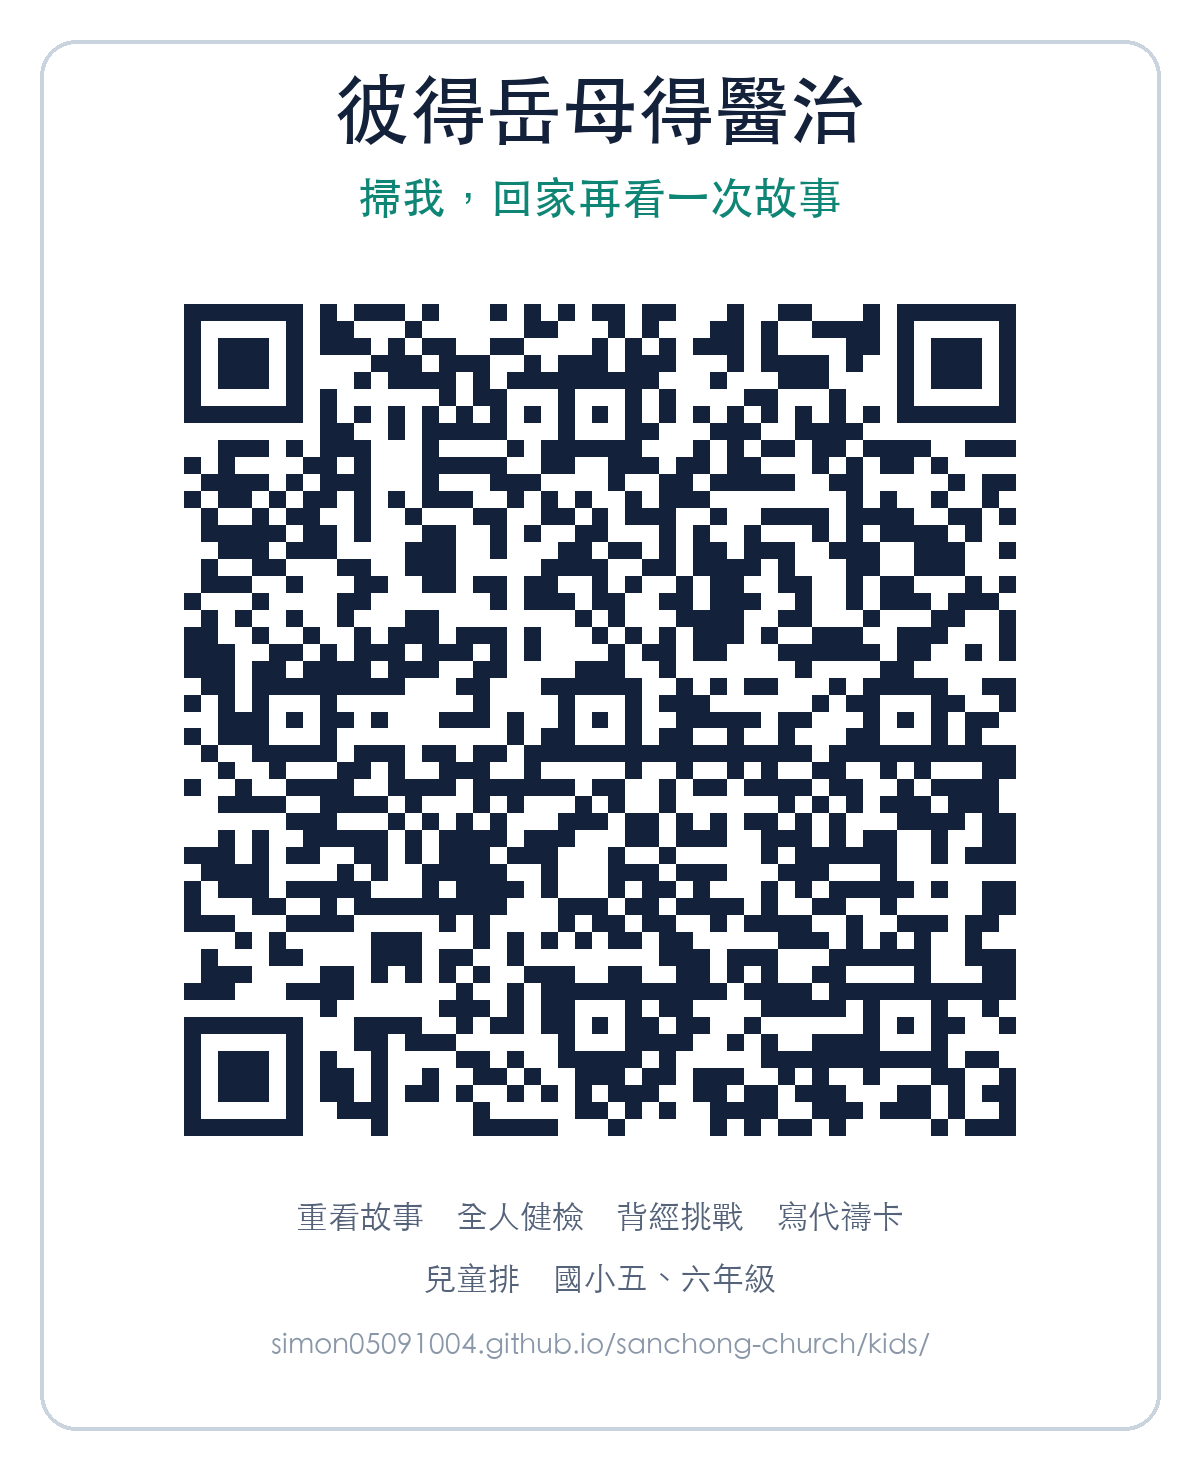
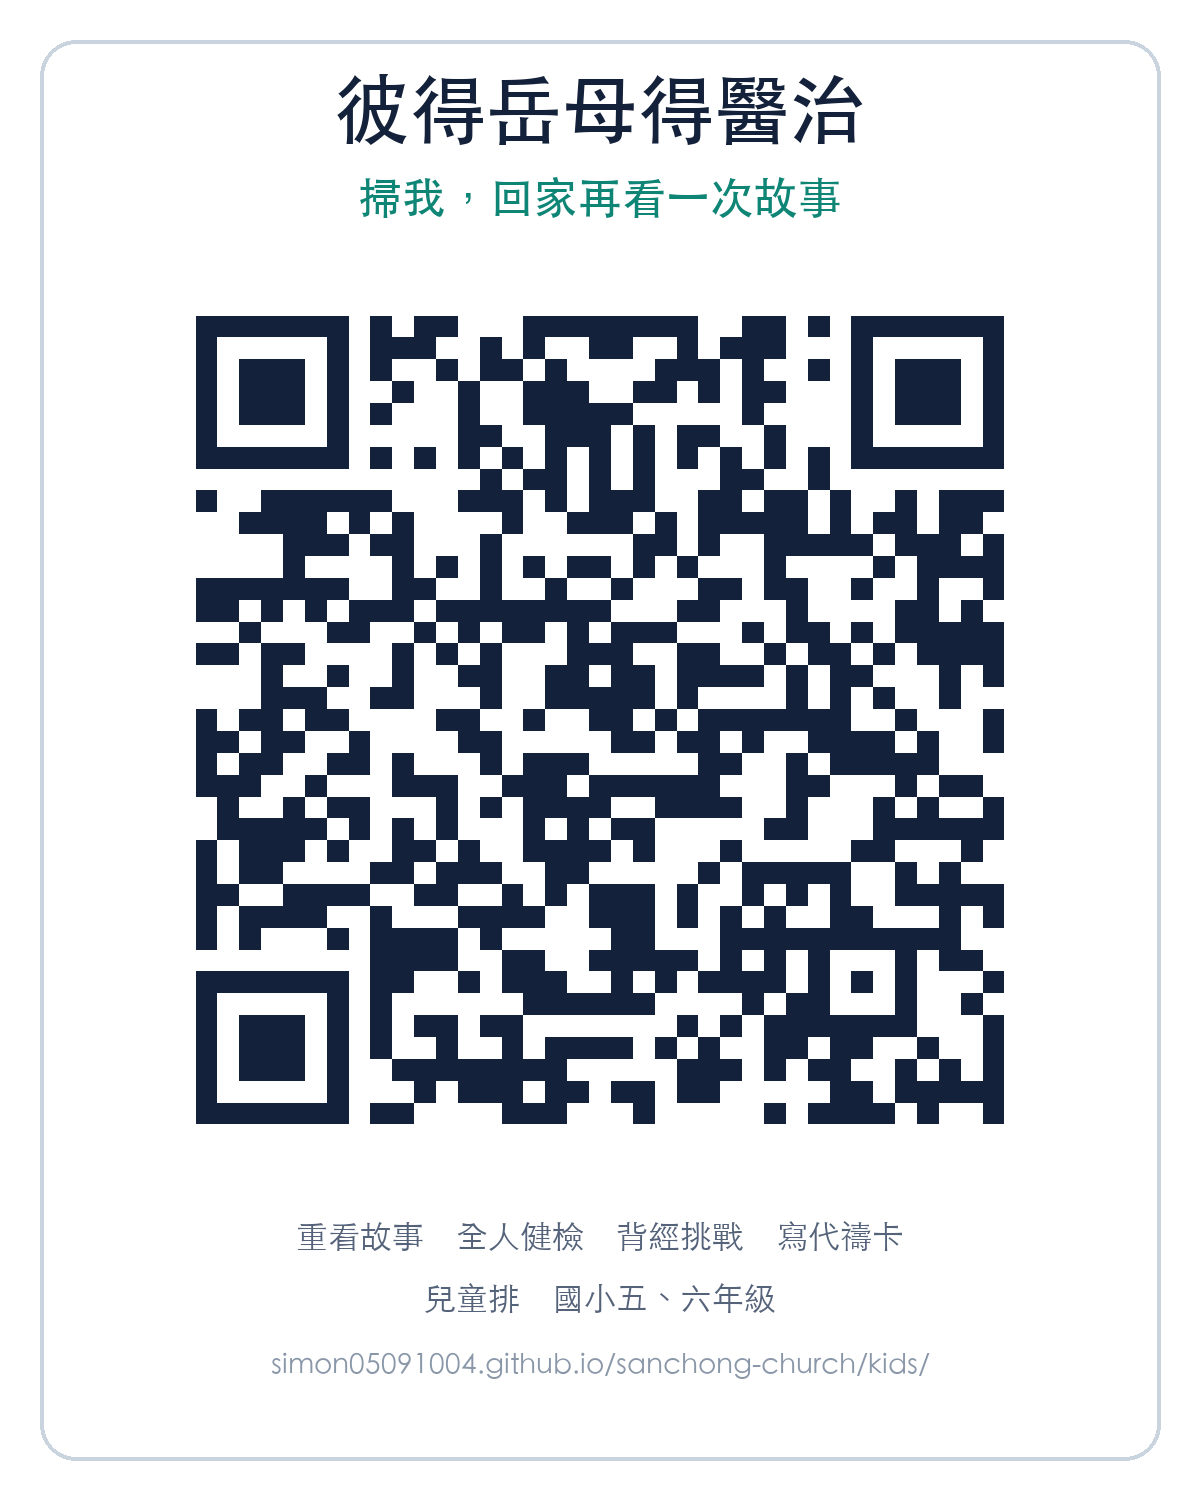
Fix kids QR code: was cropped and too dense to scan
The in-page QR SVG had fixed width/height and no viewBox, so shrinking
it with CSS cut off two finder patterns. Regenerated as a version 5-M
code (37x37 instead of 49x49) with a viewBox, added tap-to-enlarge for
projecting, and remade the poster PNG to match.

Changed region(s): [[0.1542, 0.1837, 0.8633, 0.9184], [0.2775, 0.0306, 0.7092, 0.1531]]

diff --git a/kids/peter-healing.html b/kids/peter-healing.html
@@ -338,7 +338,12 @@ body.proj .narr-text{font-size:clamp(22px,2.5vw,30px)}
 .takeaway{font-family:var(--font-kai);font-size:clamp(22px,3vw,34px);text-align:center;margin:8px 0 0;color:var(--heal);line-height:1.5}
 .qr-card{display:grid;grid-template-columns:auto minmax(0,1fr);gap:16px;align-items:center}
 .qr-card p{margin:0}
-.qr-slot svg{width:clamp(120px,15vw,170px);height:auto;display:block;border-radius:8px}
+.qr-btn{border:0;background:none;padding:0;cursor:zoom-in;display:grid;justify-items:center;gap:4px;color:var(--muted);font-size:12.5px}
+.qr-btn svg{width:clamp(150px,18vw,220px);height:auto;display:block;border-radius:8px}
+.qr-big{position:fixed;inset:0;z-index:50;background:color-mix(in srgb,var(--ink) 72%,transparent);display:grid;place-items:center;padding:max(16px,env(safe-area-inset-top,0px)) max(16px,env(safe-area-inset-right,0px)) max(16px,env(safe-area-inset-bottom,0px)) max(16px,env(safe-area-inset-left,0px));cursor:zoom-out}
+.qr-big-in{background:#fff;color:#14213A;border-radius:18px;padding:clamp(14px,2.5vw,28px);display:grid;justify-items:center;gap:10px;text-align:center}
+.qr-big-in svg{width:min(72vh,84vw);height:auto;display:block}
+.qr-big-in p{margin:0;font-family:var(--font-kai);font-size:clamp(20px,3vw,34px);font-weight:700}
 .qr-card .url{font-size:12.5px;color:var(--muted);word-break:break-all;margin-top:4px}
 @media (max-width:520px){.qr-card{grid-template-columns:minmax(0,1fr);justify-items:center;text-align:center}}
 .seg-foot a.primary{margin-left:auto}
@@ -758,6 +763,7 @@ body.kids .plan-tl,body.kids #mode,body.kids #timer,body.kids .qr-card,body.kids
 </section>
 
 </main>
+<div class="qr-big" id="qr-big" hidden><div class="qr-big-in" role="dialog" aria-label="放大的 QR code"><div id="qr-big-slot"></div><p>掃我，回家再看一次故事</p><span style="font-size:13px;color:#55637A">點任何地方關閉</span></div></div>
 
 <script>
 (function(){
@@ -806,8 +812,12 @@ const timer=(()=>{
 /* ---------- mode & fullscreen ---------- */
 let KIDS=false;try{KIDS=new URLSearchParams(location.search).has('kids');}catch(e){}
 const KIDS_URL='https://simon05091004.github.io/sanchong-church/kids/peter-healing.html?kids';
-const QR_SVG="<svg role=\"img\" aria-label=\"給孩子掃的 QR code\" width=\"212\" height=\"212\" class=\"segno\"><g transform=\"scale(4)\"><path fill=\"#fff\" d=\"M0 0h53v53h-53z\"/><path class=\"qrline\" stroke=\"#14213a\" d=\"M2 2.5h7m1 0h1m1 0h3m1 0h1m3 0h1m1 0h1m1 0h1m1 0h2m1 0h2m3 0h1m2 0h2m3 0h1m1 0h7m-49 1h1m5 0h1m1 0h2m3 0h1m6 0h2m3 0h1m1 0h1m3 0h2m1 0h1m2 0h4m1 0h1m5 0h1m-49 1h1m1 0h3m1 0h1m1 0h3m1 0h1m1 0h2m2 0h2m4 0h1m1 0h1m1 0h1m1 0h3m1 0h1m4 0h2m1 0h1m1 0h3m1 0h1m-49 1h1m1 0h3m1 0h1m4 0h3m1 0h3m2 0h1m1 0h3m1 0h3m3 0h1m1 0h4m1 0h1m2 0h1m1 0h3m1 0h1m-49 1h1m1 0h3m1 0h1m3 0h1m1 0h4m1 0h1m1 0h9m3 0h1m3 0h3m4 0h1m1 0h3m1 0h1m-49 1h1m5 0h1m1 0h1m6 0h1m1 0h2m3 0h1m3 0h1m1 0h1m4 0h2m3 0h1m3 0h1m5 0h1m-49 1h7m1 0h1m1 0h1m1 0h1m1 0h1m1 0h1m1 0h1m1 0h1m1 0h1m1 0h1m1 0h1m1 0h1m1 0h1m1 0h1m1 0h1m1 0h1m1 0h1m1 0h1m1 0h7m-41 1h2m2 0h1m1 0h5m3 0h1m3 0h2m3 0h3m2 0h4m-38 1h3m1 0h1m1 0h3m3 0h1m4 0h1m1 0h6m3 0h1m1 0h1m1 0h2m1 0h2m1 0h4m2 0h3m-49 1h1m1 0h1m4 0h2m1 0h1m3 0h5m2 0h2m2 0h3m1 0h2m1 0h2m3 0h1m1 0h1m1 0h2m1 0h1m-44 1h4m1 0h1m1 0h3m3 0h1m3 0h3m4 0h1m2 0h2m1 0h5m2 0h2m5 0h1m1 0h2m-49 1h1m1 0h2m1 0h1m1 0h2m1 0h1m1 0h1m1 0h3m2 0h1m1 0h1m1 0h1m2 0h1m1 0h3m8 0h1m1 0h1m2 0h1m2 0h1m-47 1h1m2 0h1m1 0h2m2 0h1m2 0h1m3 0h2m2 0h2m1 0h1m1 0h3m2 0h1m2 0h4m1 0h4m2 0h2m1 0h1m-48 1h5m1 0h2m1 0h1m3 0h2m2 0h1m1 0h1m2 0h2m3 0h1m1 0h1m2 0h1m3 0h1m1 0h1m1 0h4m1 0h1m-45 1h3m1 0h3m4 0h3m2 0h1m3 0h2m1 0h2m1 0h1m1 0h2m1 0h3m2 0h3m2 0h3m2 0h1m-48 1h1m2 0h2m3 0h2m2 0h3m5 0h4m2 0h2m1 0h4m1 0h1m3 0h2m2 0h3m-45 1h3m2 0h1m3 0h2m2 0h2m1 0h2m1 0h2m2 0h1m1 0h1m2 0h1m1 0h2m2 0h2m2 0h1m1 0h2m3 0h1m1 0h1m-49 1h1m3 0h1m4 0h2m7 0h1m1 0h3m1 0h2m2 0h2m1 0h3m2 0h1m2 0h1m1 0h3m1 0h3m-47 1h1m1 0h1m2 0h1m2 0h1m3 0h2m8 0h1m1 0h1m3 0h4m2 0h2m3 0h1m3 0h2m2 0h1m-49 1h2m2 0h1m2 0h1m2 0h1m1 0h3m1 0h3m1 0h1m3 0h1m1 0h1m1 0h1m1 0h3m1 0h1m2 0h3m2 0h3m3 0h1m-49 1h3m2 0h2m1 0h1m1 0h3m1 0h3m1 0h1m1 0h1m4 0h1m1 0h2m1 0h2m3 0h6m1 0h2m2 0h1m1 0h1m-49 1h3m1 0h2m1 0h4m1 0h3m2 0h2m4 0h3m2 0h1m7 0h1m4 0h2m-42 1h2m1 0h9m3 0h2m3 0h6m2 0h1m1 0h1m1 0h2m3 0h1m1 0h5m2 0h2m-49 1h1m1 0h1m1 0h1m3 0h1m8 0h1m4 0h1m3 0h1m1 0h3m6 0h1m1 0h2m3 0h2m2 0h1m-47 1h3m1 0h1m1 0h2m1 0h1m3 0h3m1 0h1m2 0h1m1 0h1m1 0h1m2 0h5m1 0h2m3 0h1m1 0h1m1 0h1m1 0h2m-48 1h1m1 0h3m3 0h1m10 0h1m1 0h2m3 0h1m1 0h2m2 0h1m2 0h1m3 0h2m3 0h1m1 0h1m-46 1h1m2 0h5m1 0h3m1 0h2m1 0h2m1 0h17m1 0h11m-47 1h1m2 0h1m3 0h2m1 0h1m2 0h3m2 0h1m5 0h1m2 0h1m2 0h1m1 0h1m2 0h2m2 0h1m1 0h1m3 0h2m-49 1h1m2 0h1m2 0h4m2 0h4m1 0h6m1 0h2m2 0h1m1 0h2m1 0h4m1 0h2m2 0h1m1 0h4m-46 1h4m2 0h4m1 0h1m3 0h1m1 0h1m3 0h1m1 0h1m2 0h1m6 0h1m1 0h1m1 0h1m1 0h3m1 0h3m-42 1h3m3 0h1m1 0h1m1 0h1m1 0h1m3 0h3m1 0h2m1 0h1m1 0h1m1 0h2m1 0h1m1 0h1m3 0h4m1 0h2m-47 1h1m1 0h1m2 0h5m1 0h1m1 0h4m1 0h3m3 0h2m1 0h3m2 0h3m1 0h1m1 0h2m2 0h1m2 0h2m-49 1h3m1 0h1m1 0h2m2 0h2m1 0h1m1 0h3m1 0h3m3 0h1m2 0h1m5 0h1m1 0h6m2 0h1m1 0h3m-48 1h4m4 0h1m1 0h1m2 0h5m2 0h1m3 0h3m1 0h3m3 0h3m3 0h1m-42 1h1m1 0h3m1 0h5m3 0h1m1 0h4m1 0h1m3 0h1m1 0h2m1 0h1m3 0h1m1 0h1m1 0h5m1 0h1m2 0h2m-49 1h1m3 0h2m2 0h1m1 0h9m3 0h3m1 0h2m1 0h4m1 0h1m2 0h2m2 0h1m5 0h2m-49 1h3m3 0h4m5 0h1m1 0h1m4 0h1m1 0h2m1 0h2m2 0h1m1 0h4m2 0h1m2 0h3m1 0h2m-45 1h1m1 0h1m5 0h3m3 0h1m1 0h1m1 0h1m1 0h1m1 0h2m1 0h2m5 0h3m1 0h1m1 0h1m1 0h1m2 0h1m-46 1h1m3 0h2m4 0h3m1 0h2m2 0h1m8 0h3m1 0h3m3 0h6m2 0h3m-48 1h3m4 0h2m1 0h1m1 0h1m1 0h1m1 0h1m2 0h3m2 0h2m2 0h2m1 0h1m1 0h1m2 0h2m4 0h1m3 0h2m-49 1h3m3 0h4m6 0h1m2 0h1m1 0h11m1 0h4m1 0h11m-41 1h1m6 0h3m1 0h1m1 0h2m3 0h1m1 0h2m4 0h5m1 0h1m3 0h1m2 0h1m-48 1h7m3 0h4m2 0h1m1 0h2m1 0h2m1 0h1m1 0h2m1 0h2m2 0h1m6 0h1m1 0h1m1 0h2m2 0h1m-49 1h1m5 0h1m3 0h2m1 0h3m6 0h1m3 0h4m2 0h1m1 0h1m2 0h4m3 0h1m-45 1h1m1 0h3m1 0h1m1 0h1m2 0h1m4 0h2m1 0h1m2 0h5m1 0h1m5 0h11m1 0h2m-48 1h1m1 0h3m1 0h1m1 0h2m1 0h1m2 0h1m2 0h2m1 0h1m2 0h3m1 0h2m1 0h3m2 0h1m1 0h1m2 0h1m3 0h2m2 0h1m-49 1h1m1 0h3m1 0h1m1 0h2m1 0h1m1 0h2m1 0h1m2 0h1m1 0h1m1 0h1m1 0h3m2 0h2m1 0h2m1 0h3m3 0h2m1 0h1m1 0h2m-49 1h1m5 0h1m2 0h3m5 0h1m5 0h2m1 0h1m1 0h1m2 0h4m2 0h3m1 0h3m1 0h1m2 0h1m-49 1h7m4 0h1m5 0h5m3 0h1m5 0h1m1 0h1m1 0h2m1 0h1m5 0h1m1 0h3\"/></g></svg>";
-$$('.qr-slot').forEach(s=>s.innerHTML=QR_SVG);
+const QR_SVG="<svg role=\"img\" aria-label=\"給孩子掃的 QR code\" shape-rendering=\"crispEdges\" viewBox=\"0 0 43 43\" class=\"segno\"><path fill=\"#fff\" d=\"M0 0h43v43h-43z\"/><path class=\"qrline\" stroke=\"#14213a\" d=\"M3 3.5h7m1 0h1m1 0h2m3 0h8m2 0h2m1 0h1m1 0h7m-37 1h1m5 0h1m1 0h3m2 0h1m1 0h1m2 0h2m2 0h1m1 0h3m3 0h1m5 0h1m-37 1h1m1 0h3m1 0h1m1 0h1m2 0h1m1 0h2m1 0h1m4 0h3m1 0h1m2 0h1m1 0h1m1 0h3m1 0h1m-37 1h1m1 0h3m1 0h1m2 0h1m2 0h1m2 0h3m2 0h2m1 0h1m1 0h2m3 0h1m1 0h3m1 0h1m-37 1h1m1 0h3m1 0h1m1 0h1m3 0h1m2 0h5m5 0h1m4 0h1m1 0h3m1 0h1m-37 1h1m5 0h1m5 0h2m2 0h3m1 0h1m1 0h2m2 0h1m3 0h1m5 0h1m-37 1h7m1 0h1m1 0h1m1 0h1m1 0h1m1 0h1m1 0h1m1 0h1m1 0h1m1 0h1m1 0h1m1 0h1m1 0h7m-24 1h1m1 0h2m1 0h1m1 0h1m3 0h2m2 0h1m-29 1h1m2 0h6m3 0h3m1 0h1m1 0h3m2 0h2m1 0h2m1 0h1m2 0h1m1 0h3m-35 1h4m1 0h1m1 0h1m4 0h1m2 0h3m1 0h1m1 0h5m1 0h1m1 0h2m1 0h2m-32 1h3m1 0h2m3 0h1m6 0h2m1 0h1m2 0h5m1 0h3m1 0h1m-33 1h1m4 0h1m1 0h1m1 0h1m1 0h1m1 0h2m1 0h1m1 0h1m3 0h1m4 0h1m1 0h4m-37 1h7m2 0h2m2 0h1m2 0h1m2 0h1m3 0h2m1 0h2m2 0h1m2 0h1m2 0h1m-37 1h2m1 0h1m1 0h1m1 0h3m1 0h8m3 0h2m3 0h1m4 0h2m1 0h1m-34 1h1m3 0h2m2 0h1m1 0h1m1 0h2m1 0h1m1 0h3m3 0h1m1 0h2m1 0h1m1 0h5m-37 1h2m1 0h2m4 0h1m1 0h1m1 0h1m3 0h3m2 0h2m2 0h1m1 0h2m1 0h1m1 0h4m-34 1h1m2 0h1m2 0h1m2 0h2m2 0h2m1 0h2m1 0h4m1 0h1m1 0h2m3 0h1m1 0h1m-34 1h3m2 0h2m3 0h1m2 0h5m1 0h1m4 0h1m1 0h1m1 0h1m2 0h1m-35 1h1m1 0h2m1 0h2m4 0h2m2 0h1m2 0h2m1 0h1m1 0h7m2 0h1m3 0h1m-37 1h2m1 0h2m2 0h1m4 0h2m5 0h2m1 0h2m1 0h1m2 0h4m1 0h1m2 0h1m-37 1h1m1 0h2m2 0h2m1 0h1m3 0h1m1 0h3m5 0h2m2 0h1m1 0h5m-34 1h3m2 0h1m3 0h3m2 0h3m1 0h6m3 0h2m3 0h1m1 0h2m-35 1h1m2 0h1m1 0h2m3 0h1m1 0h1m1 0h4m2 0h4m2 0h1m3 0h1m1 0h1m2 0h1m-36 1h5m1 0h1m1 0h1m1 0h1m3 0h1m1 0h1m1 0h2m5 0h2m3 0h6m-37 1h1m1 0h3m1 0h1m2 0h2m1 0h1m2 0h4m1 0h1m3 0h1m5 0h2m3 0h1m-36 1h1m1 0h2m4 0h2m1 0h3m2 0h2m5 0h1m1 0h5m2 0h1m1 0h1m-35 1h2m2 0h4m2 0h2m2 0h1m1 0h1m1 0h3m1 0h1m2 0h1m1 0h1m1 0h1m2 0h5m-37 1h1m1 0h4m2 0h1m3 0h4m2 0h3m1 0h1m1 0h1m1 0h1m2 0h2m3 0h1m1 0h1m-37 1h1m1 0h1m3 0h1m1 0h4m1 0h1m5 0h2m3 0h11m-27 1h4m2 0h2m2 0h5m1 0h1m1 0h1m1 0h1m3 0h1m1 0h2m-36 1h7m1 0h2m2 0h1m1 0h3m2 0h1m1 0h1m1 0h4m1 0h1m1 0h1m1 0h1m3 0h1m-37 1h1m5 0h1m1 0h1m6 0h6m4 0h1m1 0h2m3 0h1m2 0h1m-36 1h1m1 0h3m1 0h1m1 0h1m1 0h2m1 0h2m7 0h1m1 0h1m1 0h7m3 0h1m-37 1h1m1 0h3m1 0h1m1 0h1m2 0h1m2 0h1m1 0h4m1 0h1m1 0h1m2 0h2m1 0h2m2 0h1m2 0h1m-37 1h1m1 0h3m1 0h1m2 0h8m5 0h3m1 0h1m1 0h2m2 0h1m1 0h1m1 0h1m-37 1h1m5 0h1m3 0h1m1 0h3m1 0h2m1 0h2m1 0h2m5 0h2m1 0h5m-37 1h7m1 0h2m4 0h3m3 0h1m5 0h1m1 0h4m1 0h1m2 0h1\"/></svg>";
+$$('.qr-slot').forEach(s=>s.innerHTML=`<button class="qr-btn" type="button" aria-label="放大 QR code">${QR_SVG}<span>點一下放大</span></button>`);
+const qrBig=$('#qr-big');$('#qr-big-slot').innerHTML=QR_SVG;
+$$('.qr-btn').forEach(b=>b.addEventListener('click',()=>{qrBig.hidden=false;}));
+qrBig.addEventListener('click',()=>{qrBig.hidden=true;});
+document.addEventListener('keydown',e=>{if(e.key==='Escape'&&!qrBig.hidden)qrBig.hidden=true;});
 $$('.qr-card .url').forEach(p=>p.textContent=KIDS_URL);
 function setMode(m,save){document.body.classList.toggle('proj',m==='proj');$$('#mode button').forEach(b=>b.setAttribute('aria-pressed',String(b.dataset.mode===m)));if(save!==false)store.set('peterHeal.mode',m);}
 $$('#mode button').forEach(b=>b.addEventListener('click',()=>setMode(b.dataset.mode)));
